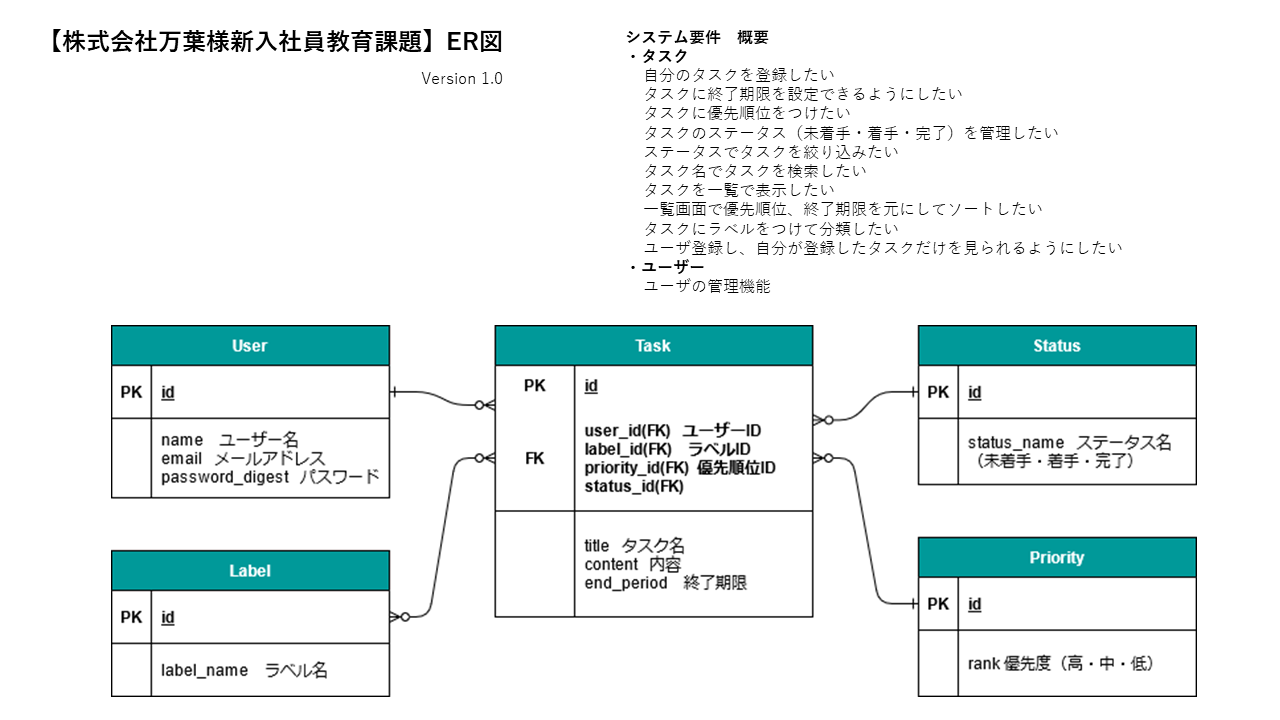
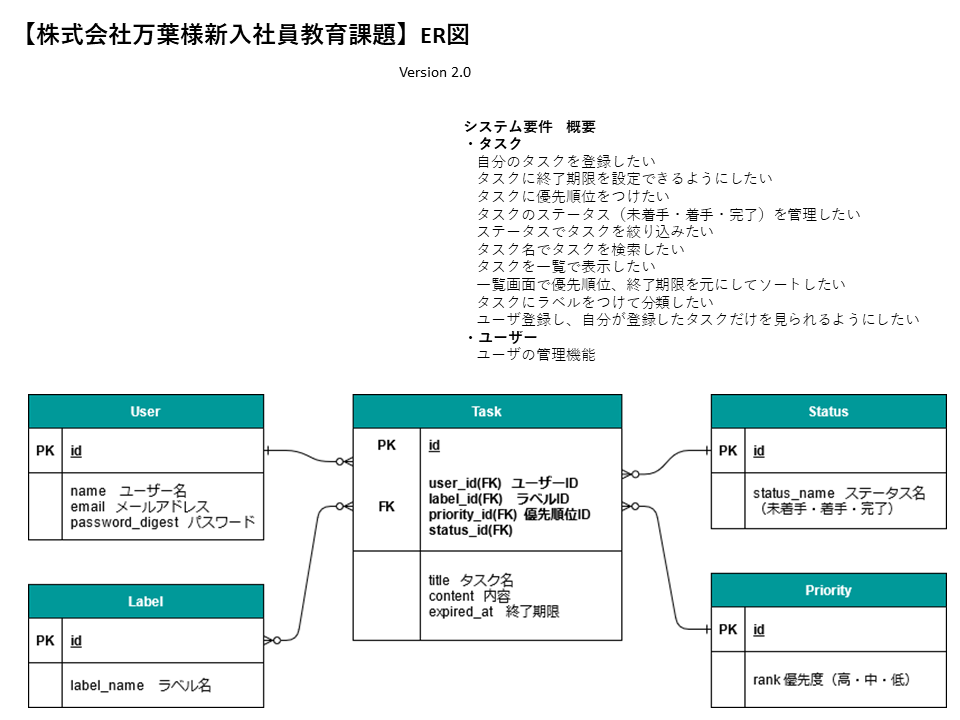
tasksテーブル「終了期限」のカラム名の変更をテーブルスキーマとER図に反映

Changed region(s): [[0.0312, 0.0306, 1.0, 1.0], [0.75, 0.1528, 0.8125, 0.2139], [0.9688, 0.6417, 1.0, 0.6722]]

diff --git a/README.md b/README.md
@@ -12,7 +12,7 @@
 | status_id(FK) | bigint | ステータスID |
 | title | string | タスク名 |
 | content | text | 内容 |
-| end_period | datetime | 終了期限 |
+| expired_at | datetime | 終了期限 |
 
 ### Userモデル
 | カラム名 | データ型 | 備考 |
